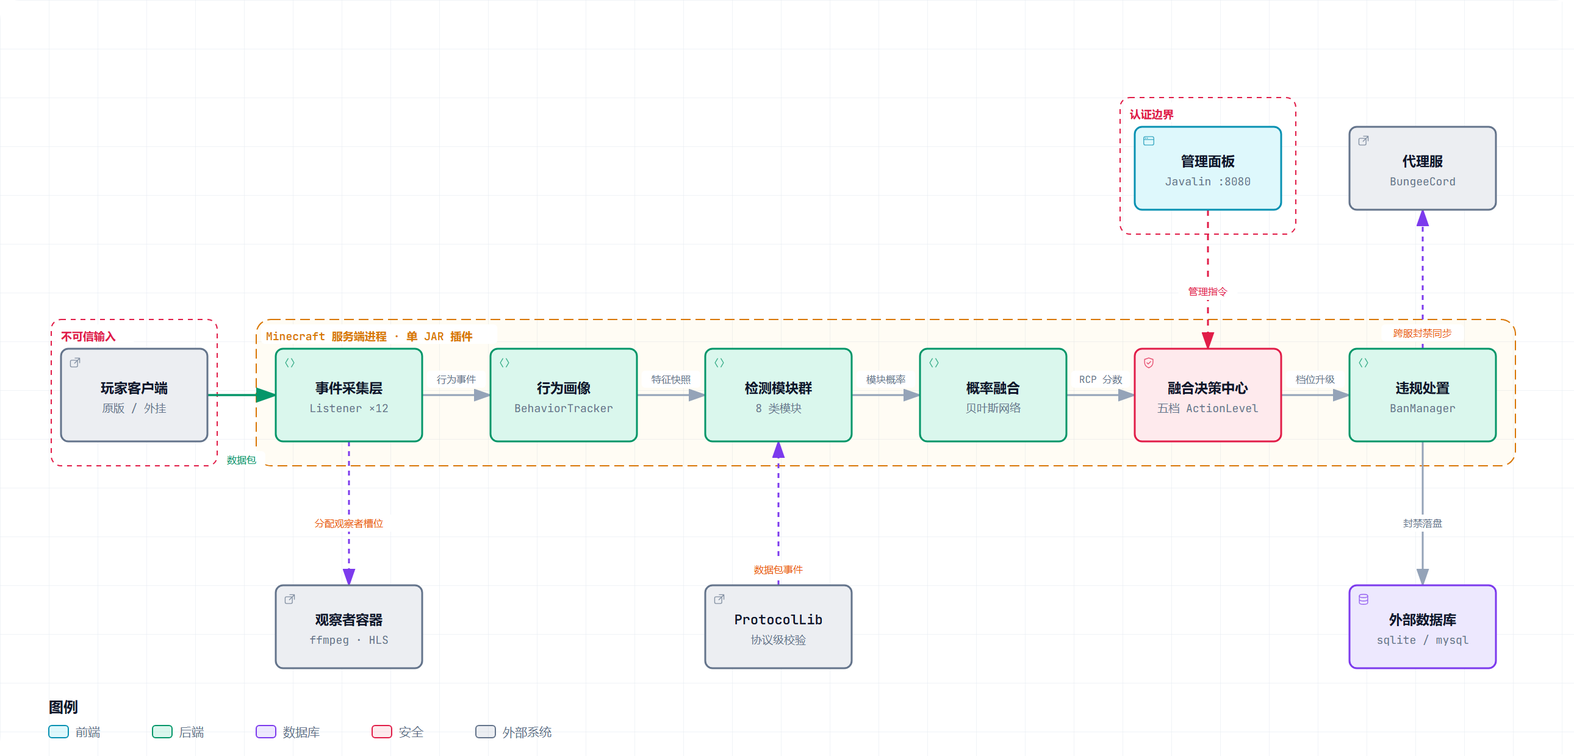
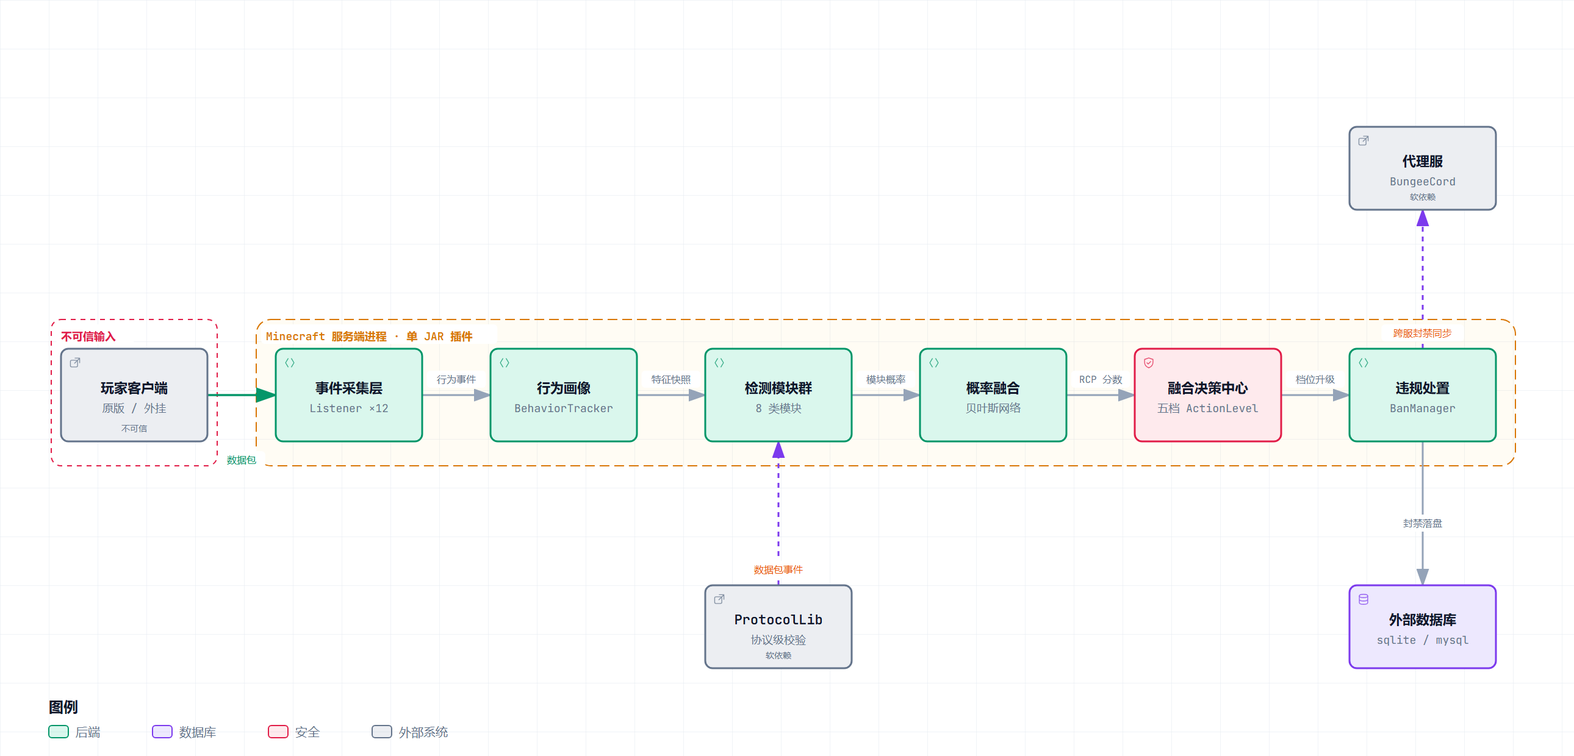
docs: 架构图随模块下线重新生成，移除管理面板与观察者容器节点
- spec 删除 panel / observer 两个组件及其连线、认证边界，卡片文案同步为
  「处罚动作已接线」「无 HTTP 服务，管理走游戏内 /ac config」
- archify 重新交付：9/9 检查通过、0 error / 0 warning、13 处源码引用
- 明暗两版 PNG 由提取出的 SVG + 样式表独立渲染重出，替换仍画着已下线模块的旧图
- README 架构图锚点更新为 5ae02ab，并注明本次下线范围

diff --git a/docs/architecture/anticheat-runtime-architecture.html b/docs/architecture/anticheat-runtime-architecture.html
@@ -5085,8 +5085,8 @@ OTHER DEALINGS IN THE FONT SOFTWARE.
       </div>
     </div>
 
-    <script id="archify-guided-views-data" type="application/json">[{"id":"main-path","label":"主链路","focus":["player","ingest","profile","modules","fusion","decision","sanction"],"note":"玩家数据包 → 采集 → 画像 → 检测 → 融合 → 决策 → 处置。"},{"id":"trust-boundaries","label":"信任边界","focus":["player","ingest","panel","decision","sanction","observer"],"note":"两处入站边界：不可信的玩家输入、需认证的管理指令。"},{"id":"side-branches","label":"外部依赖旁路","focus":["ingest","observer","modules","protocollib","sanction","db","proxy"],"note":"回放取证、协议校验、持久化、跨服同步四条旁路。"}]</script>
-    <script id="archify-source-evidence-data" type="application/json">{"schemaVersion":1,"verified":true,"repository":{"url":"https://github.com/cklsit/AdvancedAntiCheat","revision":"4b3bb479840c7b920d3860422eec86cdad75b549","shortRevision":"4b3bb47","label":"cklsit/AdvancedAntiCheat","href":"https://github.com/cklsit/AdvancedAntiCheat/tree/4b3bb479840c7b920d3860422eec86cdad75b549"},"referenceCount":16,"nodes":{"ingest":[{"path":"src/main/java/com/anticheat/managers/DetectionCoordinator.java","line":1,"label":"事件节流入口","href":"https://github.com/cklsit/AdvancedAntiCheat/blob/4b3bb479840c7b920d3860422eec86cdad75b549/src/main/java/com/anticheat/managers/DetectionCoordinator.java#L1"},{"path":"src/main/java/com/anticheat/listeners/PlayerMoveListener.java","line":1,"label":"移动事件","href":"https://github.com/cklsit/AdvancedAntiCheat/blob/4b3bb479840c7b920d3860422eec86cdad75b549/src/main/java/com/anticheat/listeners/PlayerMoveListener.java#L1"}],"profile":[{"path":"src/main/java/com/anticheat/profiles/BehaviorTracker.java","line":1,"label":"画像采集","href":"https://github.com/cklsit/AdvancedAntiCheat/blob/4b3bb479840c7b920d3860422eec86cdad75b549/src/main/java/com/anticheat/profiles/BehaviorTracker.java#L1"}],"modules":[{"path":"src/main/java/com/anticheat/managers/AdvancedDetectionManager.java","line":79,"label":"CHECK_INTERVAL_MS=100","href":"https://github.com/cklsit/AdvancedAntiCheat/blob/4b3bb479840c7b920d3860422eec86cdad75b549/src/main/java/com/anticheat/managers/AdvancedDetectionManager.java#L79"}],"fusion":[{"path":"src/main/java/com/anticheat/detection/fusion/ProbabilityFusionEngine.java","line":1,"label":"贝叶斯融合","href":"https://github.com/cklsit/AdvancedAntiCheat/blob/4b3bb479840c7b920d3860422eec86cdad75b549/src/main/java/com/anticheat/detection/fusion/ProbabilityFusionEngine.java#L1"},{"path":"src/main/java/com/anticheat/detection/fusion/RCPComputer.java","line":1,"label":"RCP 计算","href":"https://github.com/cklsit/AdvancedAntiCheat/blob/4b3bb479840c7b920d3860422eec86cdad75b549/src/main/java/com/anticheat/detection/fusion/RCPComputer.java#L1"}],"decision":[{"path":"src/main/java/com/anticheat/detection/fusion/DecisionActionCenter.java","line":55,"label":"ActionLevel 枚举","href":"https://github.com/cklsit/AdvancedAntiCheat/blob/4b3bb479840c7b920d3860422eec86cdad75b549/src/main/java/com/anticheat/detection/fusion/DecisionActionCenter.java#L55"}],"sanction":[{"path":"src/main/java/com/anticheat/detection/ViolationManager.java","line":268,"label":"触发封禁","href":"https://github.com/cklsit/AdvancedAntiCheat/blob/4b3bb479840c7b920d3860422eec86cdad75b549/src/main/java/com/anticheat/detection/ViolationManager.java#L268"},{"path":"src/main/java/com/anticheat/managers/BanManager.java","line":71,"label":"banPlayer","href":"https://github.com/cklsit/AdvancedAntiCheat/blob/4b3bb479840c7b920d3860422eec86cdad75b549/src/main/java/com/anticheat/managers/BanManager.java#L71"}],"panel":[{"path":"src/main/java/com/anticheat/web/WebServer.java","line":1,"label":"Javalin 服务","href":"https://github.com/cklsit/AdvancedAntiCheat/blob/4b3bb479840c7b920d3860422eec86cdad75b549/src/main/java/com/anticheat/web/WebServer.java#L1"},{"path":"src/main/java/com/anticheat/web/auth/AuthFilter.java","line":30,"label":"Bearer 校验","href":"https://github.com/cklsit/AdvancedAntiCheat/blob/4b3bb479840c7b920d3860422eec86cdad75b549/src/main/java/com/anticheat/web/auth/AuthFilter.java#L30"}],"proxy":[{"path":"plugin.yml","line":10,"label":"softdepend","href":"https://github.com/cklsit/AdvancedAntiCheat/blob/4b3bb479840c7b920d3860422eec86cdad75b549/plugin.yml#L10"},{"path":"src/main/java/com/anticheat/listeners/BungeeCordMessageListener.java","line":1,"label":"插件消息通道","href":"https://github.com/cklsit/AdvancedAntiCheat/blob/4b3bb479840c7b920d3860422eec86cdad75b549/src/main/java/com/anticheat/listeners/BungeeCordMessageListener.java#L1"}],"observer":[{"path":"src/main/java/com/anticheat/managers/ffmpeg/FfmpegManager.java","line":1,"label":"HTTP observerctl","href":"https://github.com/cklsit/AdvancedAntiCheat/blob/4b3bb479840c7b920d3860422eec86cdad75b549/src/main/java/com/anticheat/managers/ffmpeg/FfmpegManager.java#L1"}],"protocollib":[{"path":"src/main/java/com/anticheat/integration/ProtocolLibHook.java","line":1,"label":"软依赖探测","href":"https://github.com/cklsit/AdvancedAntiCheat/blob/4b3bb479840c7b920d3860422eec86cdad75b549/src/main/java/com/anticheat/integration/ProtocolLibHook.java#L1"}],"db":[{"path":"src/main/java/com/anticheat/managers/DatabaseManager.java","line":42,"label":"database.type 分支","href":"https://github.com/cklsit/AdvancedAntiCheat/blob/4b3bb479840c7b920d3860422eec86cdad75b549/src/main/java/com/anticheat/managers/DatabaseManager.java#L42"}]}}</script>
+    <script id="archify-guided-views-data" type="application/json">[{"id":"main-path","label":"主链路","focus":["player","ingest","profile","modules","fusion","decision","sanction"],"note":"玩家数据包 → 采集 → 画像 → 检测 → 融合 → 决策 → 处置。"},{"id":"trust-boundaries","label":"信任边界","focus":["player","ingest","decision","sanction"],"note":"两处入站边界：不可信的玩家输入、需认证的管理指令。"},{"id":"side-branches","label":"外部依赖旁路","focus":["ingest","modules","protocollib","sanction","db","proxy"],"note":"回放取证、协议校验、持久化、跨服同步四条旁路。"}]</script>
+    <script id="archify-source-evidence-data" type="application/json">{"schemaVersion":1,"verified":true,"repository":{"url":"https://github.com/cklsit/AdvancedAntiCheat","revision":"5ae02abd96ac6a4478a0a75c71e21a792c94059f","shortRevision":"5ae02ab","label":"cklsit/AdvancedAntiCheat","href":"https://github.com/cklsit/AdvancedAntiCheat/tree/5ae02abd96ac6a4478a0a75c71e21a792c94059f"},"referenceCount":13,"nodes":{"ingest":[{"path":"src/main/java/com/anticheat/managers/DetectionCoordinator.java","line":1,"label":"事件节流入口","href":"https://github.com/cklsit/AdvancedAntiCheat/blob/5ae02abd96ac6a4478a0a75c71e21a792c94059f/src/main/java/com/anticheat/managers/DetectionCoordinator.java#L1"},{"path":"src/main/java/com/anticheat/listeners/PlayerMoveListener.java","line":1,"label":"移动事件","href":"https://github.com/cklsit/AdvancedAntiCheat/blob/5ae02abd96ac6a4478a0a75c71e21a792c94059f/src/main/java/com/anticheat/listeners/PlayerMoveListener.java#L1"}],"profile":[{"path":"src/main/java/com/anticheat/profiles/BehaviorTracker.java","line":1,"label":"画像采集","href":"https://github.com/cklsit/AdvancedAntiCheat/blob/5ae02abd96ac6a4478a0a75c71e21a792c94059f/src/main/java/com/anticheat/profiles/BehaviorTracker.java#L1"}],"modules":[{"path":"src/main/java/com/anticheat/managers/AdvancedDetectionManager.java","line":79,"label":"CHECK_INTERVAL_MS=100","href":"https://github.com/cklsit/AdvancedAntiCheat/blob/5ae02abd96ac6a4478a0a75c71e21a792c94059f/src/main/java/com/anticheat/managers/AdvancedDetectionManager.java#L79"}],"fusion":[{"path":"src/main/java/com/anticheat/detection/fusion/ProbabilityFusionEngine.java","line":1,"label":"贝叶斯融合","href":"https://github.com/cklsit/AdvancedAntiCheat/blob/5ae02abd96ac6a4478a0a75c71e21a792c94059f/src/main/java/com/anticheat/detection/fusion/ProbabilityFusionEngine.java#L1"},{"path":"src/main/java/com/anticheat/detection/fusion/RCPComputer.java","line":1,"label":"RCP 计算","href":"https://github.com/cklsit/AdvancedAntiCheat/blob/5ae02abd96ac6a4478a0a75c71e21a792c94059f/src/main/java/com/anticheat/detection/fusion/RCPComputer.java#L1"}],"decision":[{"path":"src/main/java/com/anticheat/detection/fusion/DecisionActionCenter.java","line":55,"label":"ActionLevel 枚举","href":"https://github.com/cklsit/AdvancedAntiCheat/blob/5ae02abd96ac6a4478a0a75c71e21a792c94059f/src/main/java/com/anticheat/detection/fusion/DecisionActionCenter.java#L55"}],"sanction":[{"path":"src/main/java/com/anticheat/detection/ViolationManager.java","line":268,"label":"触发封禁","href":"https://github.com/cklsit/AdvancedAntiCheat/blob/5ae02abd96ac6a4478a0a75c71e21a792c94059f/src/main/java/com/anticheat/detection/ViolationManager.java#L268"},{"path":"src/main/java/com/anticheat/managers/BanManager.java","line":71,"label":"banPlayer","href":"https://github.com/cklsit/AdvancedAntiCheat/blob/5ae02abd96ac6a4478a0a75c71e21a792c94059f/src/main/java/com/anticheat/managers/BanManager.java#L71"}],"proxy":[{"path":"plugin.yml","line":10,"label":"softdepend","href":"https://github.com/cklsit/AdvancedAntiCheat/blob/5ae02abd96ac6a4478a0a75c71e21a792c94059f/plugin.yml#L10"},{"path":"src/main/java/com/anticheat/listeners/BungeeCordMessageListener.java","line":1,"label":"插件消息通道","href":"https://github.com/cklsit/AdvancedAntiCheat/blob/5ae02abd96ac6a4478a0a75c71e21a792c94059f/src/main/java/com/anticheat/listeners/BungeeCordMessageListener.java#L1"}],"protocollib":[{"path":"src/main/java/com/anticheat/integration/ProtocolLibHook.java","line":1,"label":"软依赖探测","href":"https://github.com/cklsit/AdvancedAntiCheat/blob/5ae02abd96ac6a4478a0a75c71e21a792c94059f/src/main/java/com/anticheat/integration/ProtocolLibHook.java#L1"}],"db":[{"path":"src/main/java/com/anticheat/managers/DatabaseManager.java","line":42,"label":"database.type 分支","href":"https://github.com/cklsit/AdvancedAntiCheat/blob/5ae02abd96ac6a4478a0a75c71e21a792c94059f/src/main/java/com/anticheat/managers/DatabaseManager.java#L42"}]}}</script>
     <script id="archify-i18n-data" type="application/json">{"locale":"zh-CN","messages":{"viewer.kind.frontend":"前端","viewer.kind.backend":"后端","viewer.kind.database":"数据库","viewer.kind.cloud":"云服务","viewer.kind.security":"安全","viewer.kind.messagebus":"消息总线","viewer.kind.external":"外部系统","viewer.kind.neutral":"中性","viewer.kind.node":"节点","viewer.kind.start":"开始","viewer.kind.active":"活动","viewer.kind.waiting":"等待","viewer.kind.decision":"决策","viewer.kind.success":"成功","viewer.kind.failure":"失败","viewer.toolbar.actions":"图表操作","viewer.theme.toggle.title":"切换主题（T）","viewer.theme.toggle":"切换颜色主题","viewer.theme.dark":"深色","viewer.theme.light":"浅色","viewer.preset.choose.title":"选择视觉风格（S 循环切换）","viewer.preset.choose":"选择视觉风格","viewer.preset.style":"风格","viewer.preset.menu":"视觉风格","viewer.preset.identity":"视觉表达","viewer.preset.cycles":"S 循环切换","viewer.preset.classic":"经典","viewer.preset.classic.short":"经典","viewer.preset.classic.hint":"稳定的技术默认风格","viewer.preset.flow":"信号流","viewer.preset.flow.short":"流动","viewer.preset.flow.hint":"突出动态流向","viewer.preset.blueprint":"蓝图","viewer.preset.blueprint.hint":"工程评审","viewer.preset.editorial":"编辑风格","viewer.preset.editorial.hint":"适合发布与上线说明","viewer.preset.badge.signalFlow":"信号流","viewer.preset.badge.blueprint":"蓝图 / 修订 01","viewer.preset.badge.editorial":"编辑风格 / 现场笔记","viewer.preset.badge.editorialPlate":"ARCHIFY / 图版 04","viewer.preset.current":"当前视觉风格：{style}。选择视觉风格","viewer.motion.live":"动态","viewer.motion.still":"静态","viewer.motion.pause":"暂停动效","viewer.motion.resume":"恢复动效","viewer.motion.reduced":"已根据减少动态效果偏好暂停动效","viewer.motion.hidden":"页面不可见时已暂停动效","viewer.motion.yielding":"暂停动效；当前让位于{owner}","viewer.motion.yielding.title":"动态预览已启用 · 正在让位于{owner}","viewer.owner.story":"引导故事","viewer.owner.chapter":"当前章节","viewer.owner.chapterPreview":"章节差异预览","viewer.owner.handoff":"章节交接","viewer.owner.route":"路径探测","viewer.owner.lens":"语义透镜","viewer.owner.relationship":"关系预览","viewer.owner.intent":"意图追踪","viewer.owner.focus":"语义聚焦","viewer.owner.legend":"图例预览","viewer.owner.reader":"读者交互","viewer.present.enter":"进入演示模式","viewer.present.enter.title":"演示模式（F）","viewer.present.exit":"退出演示模式","viewer.present.exit.title":"退出演示模式（F 或 Escape）","viewer.present.present":"演示","viewer.present.exit.label":"退出","viewer.export.button":"导出","viewer.export.button.title":"导出图表（E）","viewer.export.diagram":"导出图表","viewer.export.menu":"导出","viewer.export.subtitle":"便携、整洁的输出","viewer.export.share":"分享","viewer.export.shareCard":"分享卡片","viewer.export.routeShareCard":"路径分享卡片","viewer.export.reachShareCard":"可达范围分享卡片","viewer.export.copyShareCard":"复制分享卡片","viewer.export.copyDiagram":"复制图表","viewer.export.clipboardPng":"复制 PNG 到剪贴板","viewer.export.raster":"位图","viewer.export.image":"图像","viewer.export.lossless":"无损图像","viewer.export.compact":"紧凑图像","viewer.export.modern":"现代图像格式","viewer.export.vectorMotion":"矢量与动效","viewer.export.vectorMotion.heading":"矢量与动效","viewer.export.editable":"可编辑矢量图","viewer.export.motion6s":"6 秒动效","viewer.export.unsupported":"当前浏览器不支持","viewer.export.clipboardUnsupported":"当前浏览器不支持写入图片剪贴板","viewer.export.clipboardUnsupported.period":"当前浏览器不支持写入图片剪贴板。","viewer.export.clipboardUnsupported.short":"此浏览器不支持写入图片剪贴板。","viewer.export.motionUnavailable":"当前浏览器无法录制动效","viewer.export.webmUnavailable":"当前浏览器不支持 WebM","viewer.export.failed":"导出失败：{message}","viewer.export.unknownVariant":"未知的分享卡片类型：{variant}","viewer.export.routeRequired":"请先追踪路径，再导出路径分享卡片","viewer.export.reachRequired":"请先追踪编写可达范围，再导出可达范围分享卡片","viewer.export.unknown":"未知错误","viewer.export.routeFailed":"路径分享卡片导出失败：{message}","viewer.export.reachFailed":"可达范围分享卡片导出失败：{message}","viewer.export.copyFailed":"复制失败：{message}","viewer.export.copiedPng":"已将 PNG 复制到剪贴板","viewer.export.copiedShare":"已复制分享卡片","viewer.export.downloadedShare":"已下载分享卡片","viewer.export.downloadedRoute":"已下载路径分享卡片","viewer.export.downloadedReach":"已下载可达范围分享卡片","viewer.export.downloadedWebm":"已下载 WebM","viewer.export.recording":"正在录制 6 秒动效…","viewer.export.card.routeSummary.one":"路径：{source} → {target} · {count} 个有向跳转","viewer.export.card.routeSummary.other":"路径：{source} → {target} · {count} 个有向跳转","viewer.export.card.reachSummary":"从{origin}开始的编写{direction} · {nodes} · {links} · 最深 {hops}","viewer.export.card.node.one":"{count} 个节点","viewer.export.card.node.other":"{count} 个节点","viewer.export.card.link.one":"{count} 条连接","viewer.export.card.link.other":"{count} 条连接","viewer.export.card.hop.one":"{count} 跳","viewer.export.card.hop.other":"{count} 跳","viewer.export.card.routeBadge":"ARCHIFY · 路径 · {hops}","viewer.export.card.reachBadge":"ARCHIFY · {direction}可达范围","viewer.export.card.defaultBadge":"ARCHIFY · {preset} · {theme}","viewer.export.direction.upstream":"上游","viewer.export.direction.downstream":"下游","viewer.export.error.canvasUnavailable":"无法为{label}使用画布","viewer.export.error.contextUnavailable":"无法为{label}创建二维画布上下文","viewer.export.error.toBlobUnavailable":"{label}无法使用 canvas.toBlob","viewer.export.error.toBlobNull":"{label}的 canvas.toBlob 未返回数据","viewer.export.error.variantsCombined":"无法同时组合多种分享卡片类型","viewer.export.error.viewerState":"分享卡片导出无法移除临时 Viewer 状态","viewer.export.error.routeState":"路径卡片导出无法安全保留已解析路径","viewer.export.error.reachState":"可达范围卡片导出无法安全保留编写的可达范围","viewer.export.error.webmRequirements":"WebM 动效导出需要追踪动画及浏览器 MediaRecorder 支持","viewer.export.error.mediaRecorder":"MediaRecorder 录制失败","viewer.export.error.emptyWebm":"MediaRecorder 生成了空的 WebM","viewer.export.error.webmBackground":"无法为 WebM 导出加载 SVG 背景","viewer.guided.region":"图表引导视图","viewer.guided.previous":"上一个引导视图","viewer.guided.previous.title":"上一个引导视图（[）","viewer.guided.next":"下一个引导视图","viewer.guided.next.title":"下一个引导视图（]）","viewer.guided.views":"引导视图","viewer.guided.explore":"探索此系统","viewer.guided.intro":"沿精选路径逐步查看，而不改变源图表。","viewer.guided.trail":"故事轨迹","viewer.guided.beat":"节点","viewer.guided.nextBeat":"下一步","viewer.guided.play":"播放引导故事","viewer.guided.play.title":"播放引导故事（P）","viewer.guided.pause":"暂停引导故事","viewer.guided.pause.title":"暂停引导故事（P）","viewer.guided.replay":"重播引导故事","viewer.guided.replay.title":"重播引导故事（P）","viewer.guided.playStory":"播放故事","viewer.guided.pauseStory":"暂停","viewer.guided.replayStory":"重播故事","viewer.guided.motionUnavailable":"静态模式下无法播放故事","viewer.guided.enableMotion":"切换为动态模式以播放引导故事","viewer.guided.selectBeatLink":"选择故事节点以复制其精确链接","viewer.guided.copyMoment":"复制此刻","viewer.guided.momentCopied":"已复制时刻链接","viewer.guided.momentCopyFailed":"无法复制故事时刻链接","viewer.guided.copied":"已复制","viewer.guided.copyFailed":"复制失败","viewer.guided.showAll":"显示全部","viewer.guided.showAll.aria":"显示完整图表","viewer.guided.chapters":"故事章节","viewer.guided.storyTrail":"{label}的故事轨迹：{count} 个节点","viewer.guided.chapter.open":"打开第 {index}/{total} 章：{label}，{count} 个停靠点","viewer.guided.chapter.current":"当前第 {index}/{total} 章：{label}，{count} 个停靠点","viewer.guided.chapter.selectedNodes":"已选择 {count} 个节点","viewer.guided.chapter.stops":"{count} 个停靠点","viewer.guided.chapter.stop.one":"{count} 个停靠点","viewer.guided.chapter.stop.other":"{count} 个停靠点","viewer.guided.chapter.current.title":"{label} — 当前章节，{count} 个停靠点","viewer.guided.chapter.delta.expanded":"{stay} 个保留，{enter} 个进入，{leave} 个离开","viewer.guided.chapter.delta.aria":"打开第 {index}/{total} 章：{label}。章节聚焦差异：{delta}","viewer.guided.chapter.delta.title":"{label} — 章节聚焦 {delta}","viewer.guided.handoff":"{from} → {to} · 经由{label}","viewer.guided.share.chapter":"章节 {index} / {total}","viewer.guided.share.initial":"章节 01 / 01","viewer.guided.share.default":"引导章节","viewer.guided.state.ready":"就绪","viewer.guided.state.playing":"播放中","viewer.guided.state.settled":"已完成","viewer.guided.state.paused":"已暂停","viewer.guided.state.pinned":"已固定","viewer.guided.state.still":"静态","viewer.guided.share.step":"步骤 {index} / {total} · {label}","viewer.guided.share.staticMoment":"{step} · 静态时刻","viewer.guided.share.complete":"{count} 个步骤已完成 · {note}","viewer.guided.share.settled":"路径已稳定，可供阅读。","viewer.guided.share.staticPath":"{count} 个步骤 · 静态路径","viewer.guided.share.ready":"{count} 个步骤 · 就绪","viewer.guided.share.aria":"{state}，第 {index}/{total} 章：{label}。{beat}。{route}","viewer.guided.beat.start":"节点 {index} / {total} · {label} · 起点","viewer.guided.beat.forward":"节点 {index} / {total} · {from} → {to}","viewer.guided.beat.reverse":"节点 {index} / {total} · {from} → {to} · 反向编写连接","viewer.guided.beat.multiple":"节点 {index} / {total} · {from} ⇄ {to} · {count} 条编写连接","viewer.guided.beat.group":"节点 {index} / {total} · {from} · {to} · 分组 · 无直接连接","viewer.guided.beat.aria.prefix":"故事节点 {index}/{total}：{label}。","viewer.guided.beat.aria.start":"起点。","viewer.guided.beat.aria.forward":"从{from}经一条正向编写关系到达。","viewer.guided.beat.aria.reverse":"从{from}出发；编写关系实际由{to}指向{from}。","viewer.guided.beat.aria.multiple":"从{from}经 {count} 条编写关系到达；不使用任意动效。","viewer.guided.beat.aria.group":"与{from}分组展示，没有直接编写关系。","viewer.guided.caption.start":"起点","viewer.guided.caption.grouped":"分组过渡 · 无直接编写连接","viewer.guided.caption.more":" +另外 {count} 条","viewer.guided.caption.reverse":"反向编写关系","viewer.guided.caption.relationships":"{count} 条编写关系","viewer.guided.caption.relationship":"编写关系","viewer.guided.caption.direction":"编写方向：{from} → {to}","viewer.guided.caption.starting":"编写起点","viewer.guided.beatLink":"复制当前故事时刻链接：第 {index}/{total} 个节点：{label}","viewer.guided.noStory":"此图表没有编写引导故事。","viewer.guide.eyebrow":"图表指南","viewer.guide.close":"关闭图表指南","viewer.guide.inspecting":"正在检查已编译语义","viewer.guide.actions":"图表探索操作","viewer.guide.find":"查找任意节点","viewer.guide.find.hint":"搜索标签、职责、类型和稳定 ID。","viewer.guide.route":"追踪路径","viewer.guide.route.aria":"追踪有向路径","viewer.guide.route.hint":"查看两个语义节点如何按编写方向连接。","viewer.guide.map":"查看完整系统","viewer.guide.map.hint":"打开带实时视口和稳定节点的语义雷达。","viewer.guide.lens":"比较语义类型","viewer.guide.lens.hint":"统计角色、显示流量并比较直接编写的连接。","viewer.guide.story":"播放引导故事","viewer.guide.story.hint":"浏览已编写的章节和真实关系。","viewer.guide.present":"进入演示模式","viewer.guide.present.hint":"让实时图表占满视口，同时不改变导出。","viewer.guide.shortcuts":"其他键盘快捷键","viewer.guide.shortcut.export":"导出","viewer.guide.shortcut.theme":"主题","viewer.guide.shortcut.style":"风格","viewer.guide.shortcut.reset":"重置","viewer.guide.shortcut.zoomIn":"放大","viewer.guide.shortcut.zoomOut":"缩小","viewer.guide.shortcut.close":"关闭","viewer.guide.facts":"{nodes} · {relationships} · {views}","viewer.guide.fact.node.one":"{count} 个语义节点","viewer.guide.fact.node.other":"{count} 个语义节点","viewer.guide.fact.relationship.one":"{count} 条关系","viewer.guide.fact.relationship.other":"{count} 条关系","viewer.guide.fact.view.one":"{count} 个引导视图","viewer.guide.fact.view.other":"{count} 个引导视图","viewer.guide.story.available.one":"浏览 {count} 个已编写章节及其真实关系。","viewer.guide.story.available.other":"浏览 {count} 个已编写章节及其真实关系。","viewer.guide.story.unavailable":"此图表没有编写引导故事。","viewer.guide.open":"打开图表指南","viewer.guide.noStory":"此图表没有编写引导故事。","viewer.finder.title":"查找节点","viewer.finder.close":"关闭节点查找器","viewer.finder.placeholder":"搜索标签或 ID","viewer.finder.search":"搜索图表节点","viewer.finder.results":"图表节点","viewer.finder.empty":"没有匹配的节点","viewer.finder.result.focus":"聚焦{label}","viewer.finder.result.routeStart":"选择{label}作为路径起点","viewer.finder.result.routeTarget":"选择{label}作为路径终点，{links}","viewer.finder.status.empty":"没有匹配的节点","viewer.finder.status.count.one":"{count} 个匹配节点","viewer.finder.status.count.other":"{count} 个匹配节点","viewer.finder.noun.nodes":"个节点","viewer.finder.link.one":"{count} 条连接","viewer.finder.link.other":"{count} 条连接","viewer.finder.result.focus.one":"聚焦{label}，{count} 条相关连接","viewer.finder.result.focus.other":"聚焦{label}，{count} 条相关连接","viewer.finder.status.filtered":"{visible}/{available} {noun}","viewer.finder.status.all":"{available} {noun}","viewer.passport.eyebrow":"语义护照","viewer.passport.metadata":"节点元数据","viewer.passport.evidence":"已验证的源代码证据","viewer.passport.verified":"已验证来源","viewer.passport.verificationScope":"已按固定修订版本验证本地 Git 证据，未检查远程访问权限。","viewer.passport.reach":"编写可达范围","viewer.passport.reach.trace":"追踪编写的可达性","viewer.passport.upstream":"上游","viewer.passport.downstream":"下游","viewer.passport.upstream.trace":"追踪上游编写可达性","viewer.passport.downstream.trace":"追踪下游编写可达性","viewer.passport.close":"关闭语义护照","viewer.passport.copy":"复制链接","viewer.passport.copy.focus":"复制聚焦节点的链接","viewer.passport.relations":"关系","viewer.passport.relations.show":"显示关联关系","viewer.passport.relations.hide":"隐藏关联关系","viewer.passport.relations.list":"关联关系","viewer.passport.copyRelation":"复制关系","viewer.passport.copyNode":"复制节点","viewer.passport.copyPinned":"复制固定关系的链接","viewer.passport.copySource":"复制来源节点的链接","viewer.passport.copy.focused.success":"已复制聚焦节点链接","viewer.passport.copy.pinned.success":"已复制固定关系链接","viewer.passport.copy.focused.failed":"无法复制聚焦节点链接","viewer.passport.copy.pinned.failed":"无法复制固定关系链接","viewer.passport.relationship.none":"没有关联关系","viewer.passport.relationship.count.one":"{count} 条关系","viewer.passport.relationship.count.other":"{count} 条关系","viewer.passport.relationship.show.one":"显示 {count} 条关联关系","viewer.passport.relationship.show.other":"显示 {count} 条关联关系","viewer.passport.relationship.summary":"{out} 条出向 · {in} 条入向{loops}","viewer.passport.relationship.loops":" · {count} 条自环","viewer.passport.relationship.explorer":"直接关系浏览器","viewer.passport.relationship.help":"使用方向键浏览关系。按 Enter 或空格键固定详情；按 Escape 清除。","viewer.passport.relationship.loopsBack":"回环","viewer.passport.relationship.connectsTo":"连接到","viewer.passport.relationship.connectsFrom":"连接自","viewer.passport.relationship.pinned":"已固定关系 · {from} → {to} · {label}","viewer.passport.relationship.inspect":"检查第 {index}/{total} 条关系：{from} 到 {to}，{label}。按 Enter 查看详情。","viewer.passport.relationship.group.out":"出向","viewer.passport.relationship.group.in":"入向","viewer.passport.relationship.group.loop":"自环","viewer.passport.relationship.row":"{group}：{relationship}，{neighbor}","viewer.passport.relationship.direction.out":"出 →","viewer.passport.relationship.direction.in":"← 入","viewer.passport.relationship.direction.loop":"自环","viewer.passport.sourceCount.one":"{count} 个已验证来源引用","viewer.passport.sourceCount.other":"{count} 个已验证来源引用","viewer.passport.sourceMarker":"来源","viewer.passport.beacon.one":"{count} 个已验证来源；聚焦此节点以检查","viewer.passport.beacon.other":"{count} 个已验证来源；聚焦此节点以检查","viewer.passport.repository.open":"打开已验证的仓库修订版本 {revision}","viewer.passport.source.open":"打开修订版本 {revision} 中已验证的来源 {path}","viewer.passport.source.openLink":"打开 ↗","viewer.passport.reach.upstream.one":"追踪 {count} 个上游编写节点","viewer.passport.reach.upstream.other":"追踪 {count} 个上游编写节点","viewer.passport.reach.downstream.one":"追踪 {count} 个下游编写节点","viewer.passport.reach.downstream.other":"追踪 {count} 个下游编写节点","viewer.passport.reach.noUpstream":"没有上游编写节点","viewer.passport.reach.noDownstream":"没有下游编写节点","viewer.passport.reach.status":"{direction} · {nodes} 个节点 · {links} 条连接 · 最深 {hops} 跳","viewer.route.eyebrow":"路径探测","viewer.route.start":"选择起点节点","viewer.route.start.find":"查找起点","viewer.route.start.find.aria":"查找路径起点","viewer.route.copy":"复制链接","viewer.route.copy.aria":"复制已追踪路径的链接","viewer.route.clear":"清除","viewer.route.clear.aria":"清除路径探测","viewer.route.traced":"已追踪路径","viewer.route.pickTwo":"在图表中选择两个语义节点","viewer.route.pickOne":"在图表中选择一个语义节点","viewer.route.controls":"路径旅程控制","viewer.route.previous":"上一个路径位置","viewer.route.play":"播放路径旅程","viewer.route.pause":"暂停路径旅程","viewer.route.replay":"重播路径旅程","viewer.route.next":"下一个路径位置","viewer.route.journey":"旅程","viewer.route.pause.label":"暂停","viewer.route.replay.label":"重播","viewer.route.overview":"总览","viewer.route.overview.aria":"显示完整路径总览","viewer.route.instructions":"先选择来源，再选择目标；方向很重要。","viewer.route.destination":"选择从{label}出发的目标","viewer.route.destination.find":"查找目标","viewer.route.destination.find.aria":"查找可达的路径目标","viewer.route.differentDestination":"选择其他目标","viewer.route.distinct":"一条路径需要两个不同的语义节点。","viewer.route.unreachable":"没有通往{label}的有向路径","viewer.route.unreachable.detail":"从{source}无法到达{target}。请选择高亮的目标。","viewer.route.start.instructions":"选择来源。下一步只会显示有向可达的目标。","viewer.route.copy.success":"已复制路径链接","viewer.route.copy.failed":"无法复制路径链接","viewer.route.position":"路径位置 {index}/{total}：{label}","viewer.route.step":"第 {index}/{total} 步 · {phase} · {label}","viewer.route.motionRequired":"自动旅程需要动态模式","viewer.route.trigger.clear":"清除已追踪路径","viewer.route.overview.status":"{nodes} · {hops} · 最短编写路径","viewer.route.overview.node.one":"{count} 个节点","viewer.route.overview.node.other":"{count} 个节点","viewer.route.overview.hop.one":"{count} 个有向跳转","viewer.route.overview.hop.other":"{count} 个有向跳转","viewer.route.phase.playing":"播放中","viewer.route.phase.complete":"已完成","viewer.route.phase.inspecting":"检查中","viewer.route.destination.count.one":"有 {count} 个有向目标可用。请选择高亮节点。","viewer.route.destination.count.other":"有 {count} 个有向目标可用。请选择高亮节点。","viewer.route.noOutgoing":"此处没有可用的出向路径。请清除后选择其他来源。","viewer.route.result.title":"{source} 到 {target}","viewer.route.finder.source.title":"选择路径起点","viewer.route.finder.source.placeholder":"搜索路径来源","viewer.route.finder.source.empty":"没有匹配的路径来源","viewer.route.finder.source.results":"可作为路径起点的节点","viewer.route.finder.source.noun":"个路径来源","viewer.route.finder.source.badge":"起点","viewer.route.finder.target.title":"从{label}出发的目标","viewer.route.finder.target.placeholder":"搜索可达目标","viewer.route.finder.target.empty":"没有匹配的可达目标","viewer.route.finder.target.results":"可达路径目标","viewer.route.finder.target.noun":"个可达目标","viewer.route.hop.one":"{count} 跳","viewer.route.hop.other":"{count} 跳","viewer.lens.eyebrow":"语义透镜","viewer.lens.title":"比较系统角色","viewer.lens.close":"关闭语义透镜","viewer.lens.instruction":"最多选择两种语义类型。选择一种可显示其真实流量；选择两种只比较直接编写的关系。","viewer.lens.kinds":"语义类型","viewer.lens.choose":"选择一种类型以检查其节点和相连关系。","viewer.lens.copy":"复制语义透镜链接","viewer.lens.clear":"清除语义透镜","viewer.lens.open":"打开语义透镜","viewer.lens.openActive":"打开当前语义透镜","viewer.lens.legend":"语义图例","viewer.lens.legend.inspect.one":"检查{label}，{count} 个节点","viewer.lens.legend.inspect.other":"检查{label}，{count} 个节点","viewer.lens.kind.count.one":"{label}，{count} 个节点","viewer.lens.kind.count.other":"{label}，{count} 个节点","viewer.lens.compare.one":"{first} → {second}：{forward} · {second} → {first}：{reverse} · 共 {count} 条直接关系","viewer.lens.compare.other":"{first} → {second}：{forward} · {second} → {first}：{reverse} · 共 {count} 条直接关系","viewer.lens.single":"{nodes} · {relationships} · 已连接节点保持可见","viewer.lens.node.one":"{count} 个{label}节点","viewer.lens.node.other":"{count} 个{label}节点","viewer.lens.relationship.one":"{count} 条相连关系","viewer.lens.relationship.other":"{count} 条相连关系","viewer.radar.title":"语义雷达","viewer.radar.building":"正在构建总览","viewer.radar.openFull":"打开完整语义雷达","viewer.radar.open":"打开雷达","viewer.radar.close":"关闭语义雷达","viewer.radar.surface":"图表总览。点击节点进行聚焦，或使用方向键平移。","viewer.radar.click":"点击节点","viewer.radar.drag":"拖动平移","viewer.radar.space":"语义雷达需要更多地图可见空间。","viewer.radar.nodes":"语义图表雷达节点","viewer.radar.focus":"从语义雷达聚焦{label}","viewer.radar.status":"{count} 个节点 · {viewport}","viewer.radar.fullMap":"{count} 个节点 · 完整地图","viewer.radar.compacted":"已收紧雷达，避免遮挡语义护照或地图控件。","viewer.radar.cancelWaiting":"取消等待更多地图空间的语义雷达","viewer.radar.needsSpace":"语义雷达需要更多可见地图空间","viewer.radar.viewport.full":"完整地图","viewer.radar.viewport.width":"宽度 {percent}%","viewer.radar.viewport.scale":"视口 {percent}%","viewer.nav.controls":"图表视图控制","viewer.nav.route":"追踪有向路径","viewer.nav.route.title":"追踪路径（R）","viewer.nav.route.short":"路径","viewer.nav.radar":"打开语义雷达","viewer.nav.radar.title":"语义雷达（M）","viewer.nav.radar.short":"地图","viewer.nav.lens":"打开语义透镜","viewer.nav.lens.title":"语义透镜（L）","viewer.nav.lens.short":"透镜","viewer.nav.find":"查找节点","viewer.nav.find.title":"查找节点（/）","viewer.nav.guide":"打开图表指南","viewer.nav.guide.title":"图表指南（?）","viewer.nav.zoomOut":"缩小","viewer.nav.zoomOut.title":"缩小（-）","viewer.nav.reset":"重置图表视图","viewer.nav.reset.title":"重置视图（0）","viewer.nav.read":"阅读","viewer.nav.zoomIn":"放大","viewer.nav.zoomIn.title":"放大（+）","viewer.nav.camera":"{hint}。重置图表视图","viewer.nav.camera.title":"{semantic}{hint} · 重置视图（0）","viewer.nav.camera.semantic":"语义相机已启用 · ","viewer.nav.level.map":"概览","viewer.nav.level.read":"阅读","viewer.nav.level.full":"完整","viewer.nav.level.auto":"自动","viewer.nav.detail.map":"放大以显示关系标签和节点上下文","viewer.nav.detail.read":"再次放大以显示标签和注释","viewer.nav.detail.full":"完整图表详情","viewer.intent.summary":"{label}。{out} 条出向，{in} 条入向{loops}。共 {total} 条连接。按 Enter 查看详情。","viewer.intent.loops":"，{count} 条自环","viewer.common.copied":"已复制","viewer.common.copyFailed":"复制失败","viewer.common.copyLink":"复制链接","viewer.common.clear":"清除","viewer.common.close":"关闭"}}</script>
     <div class="guided-views no-print" id="guided-views" hidden aria-label="图表引导视图">
       <button id="guided-view-prev" type="button" aria-label="上一个引导视图" title="上一个引导视图（[）">&#8592;</button>
@@ -5160,8 +5160,6 @@ OTHER DEALINGS IN THE FONT SOFTWARE.
 
         <rect data-graph-role="structural-frame" data-composition-frame-kind="security-group" data-composition-frame-id="1" data-composition-frame-label="不可信输入" x="42" y="262" width="136" height="120" rx="8" class="c-security-group" stroke-width="1"/>
 
-        <rect data-graph-role="structural-frame" data-composition-frame-kind="security-group" data-composition-frame-id="2" data-composition-frame-label="认证边界" x="918" y="80" width="144" height="112" rx="8" class="c-security-group" stroke-width="1"/>
-
         <!-- Connection paths (before components for correct z-order) -->
         <path data-edge-from="player" data-edge-to="ingest" data-edge-label="数据包" data-edge-key="0" data-edge-id="player-to-ingest" data-composition-points="170,324;226,324" d="M 170 324 L 226 324" class="a-emphasis" stroke-width="1.8" marker-end="url(#arrowhead-emphasis)"/>
         <path data-edge-from="ingest" data-edge-to="profile" data-edge-label="行为事件" data-edge-key="1" data-edge-id="ingest-to-profile" data-composition-points="346,324;402,324" d="M 346 324 L 402 324" class="a-default" stroke-width="1.5" marker-end="url(#arrowhead)"/>
@@ -5169,11 +5167,9 @@ OTHER DEALINGS IN THE FONT SOFTWARE.
         <path data-edge-from="modules" data-edge-to="fusion" data-edge-label="模块概率" data-edge-key="3" data-edge-id="modules-to-fusion" data-composition-points="698,324;754,324" d="M 698 324 L 754 324" class="a-default" stroke-width="1.5" marker-end="url(#arrowhead)"/>
         <path data-edge-from="fusion" data-edge-to="decision" data-edge-label="RCP 分数" data-edge-key="4" data-edge-id="fusion-to-decision" data-composition-points="874,324;930,324" d="M 874 324 L 930 324" class="a-default" stroke-width="1.5" marker-end="url(#arrowhead)"/>
         <path data-edge-from="decision" data-edge-to="sanction" data-edge-label="档位升级" data-edge-key="5" data-edge-id="decision-to-sanction" data-composition-points="1050,324;1106,324" d="M 1050 324 L 1106 324" class="a-default" stroke-width="1.5" marker-end="url(#arrowhead)"/>
-        <path data-edge-from="panel" data-edge-to="decision" data-edge-label="管理指令" data-edge-key="6" data-edge-id="panel-to-decision" data-composition-points="990,172;990,286" d="M 990 172 L 990 286" class="a-security" stroke-width="1.5" marker-end="url(#arrowhead-security)"/>
-        <path data-edge-from="ingest" data-edge-to="observer" data-edge-label="分配观察者槽位" data-edge-key="7" data-edge-id="ingest-to-observer" data-composition-points="286,362;286,480" d="M 286 362 L 286 480" class="a-dashed" stroke-width="1.5" marker-end="url(#arrowhead-dashed)"/>
-        <path data-edge-from="protocollib" data-edge-to="modules" data-edge-label="数据包事件" data-edge-key="8" data-edge-id="protocollib-to-modules" data-composition-points="638,480;638,362" d="M 638 480 L 638 362" class="a-dashed" stroke-width="1.5" marker-end="url(#arrowhead-dashed)"/>
-        <path data-edge-from="sanction" data-edge-to="db" data-edge-label="封禁落盘" data-edge-key="9" data-edge-id="sanction-to-db" data-composition-points="1166,362;1166,480" d="M 1166 362 L 1166 480" class="a-default" stroke-width="1.5" marker-end="url(#arrowhead)"/>
-        <path data-edge-from="sanction" data-edge-to="proxy" data-edge-label="跨服封禁同步" data-edge-key="10" data-edge-id="sanction-to-proxy" data-composition-points="1166,286;1166,172" d="M 1166 286 L 1166 172" class="a-dashed" stroke-width="1.5" marker-end="url(#arrowhead-dashed)"/>
+        <path data-edge-from="protocollib" data-edge-to="modules" data-edge-label="数据包事件" data-edge-key="6" data-edge-id="protocollib-to-modules" data-composition-points="638,480;638,362" d="M 638 480 L 638 362" class="a-dashed" stroke-width="1.5" marker-end="url(#arrowhead-dashed)"/>
+        <path data-edge-from="sanction" data-edge-to="db" data-edge-label="封禁落盘" data-edge-key="7" data-edge-id="sanction-to-db" data-composition-points="1166,362;1166,480" d="M 1166 362 L 1166 480" class="a-default" stroke-width="1.5" marker-end="url(#arrowhead)"/>
+        <path data-edge-from="sanction" data-edge-to="proxy" data-edge-label="跨服封禁同步" data-edge-key="8" data-edge-id="sanction-to-proxy" data-composition-points="1166,286;1166,172" d="M 1166 286 L 1166 172" class="a-dashed" stroke-width="1.5" marker-end="url(#arrowhead-dashed)"/>
 
         <!-- Components -->
         <g id="node-player" data-node-id="player" data-node-label="玩家客户端" tabindex="0" role="button" aria-label="聚焦玩家客户端，原版 / 外挂, 不可信输入" aria-pressed="false" data-node-kind="external" data-node-sublabel="原版 / 外挂" data-node-tag="不可信" data-node-context="不可信输入">
@@ -5256,21 +5252,6 @@ OTHER DEALINGS IN THE FONT SOFTWARE.
         <text data-detail="context" x="1166" y="338" class="t-muted" font-size="9" text-anchor="middle">BanManager</text>
         </g>
 
-        <g id="node-panel" data-node-id="panel" data-node-label="管理面板" tabindex="0" role="button" aria-label="聚焦管理面板，Javalin :8080, 认证边界" aria-pressed="false" data-node-kind="frontend" data-node-sublabel="Javalin :8080" data-node-tag="Bearer + RBAC" data-node-context="认证边界">
-          <title>管理面板 · Javalin :8080 · 认证边界 · Bearer + RBAC</title>
-          <rect x="930" y="104" width="120" height="68" rx="6" class="c-mask"/>
-          <rect x="930" y="104" width="120" height="68" rx="6" class="c-frontend" stroke-width="1.5"/>
-          <g aria-hidden="true" data-semantic-sigil="frontend" class="semantic-sigil s-frontend" transform="translate(936 110) scale(0.6875)">
-            <rect x="2" y="3" width="12" height="10" rx="2"/>
-            <path d="M2 6.5h12"/>
-            <circle cx="4.1" cy="4.8" r=".7" class="sigil-fill"/>
-            <circle cx="6.3" cy="4.8" r=".7" class="sigil-fill"/>
-          </g>
-          <text data-node-label="" data-detail-anchor="" x="990" y="136" class="t-primary" font-size="11" font-weight="600" text-anchor="middle">管理面板</text>
-        <text data-detail="context" x="990" y="152" class="t-muted" font-size="9" text-anchor="middle">Javalin :8080</text>
-        <text data-detail="fine" x="990" y="164" class="t-frontend" font-size="7" text-anchor="middle">Bearer + RBAC</text>
-        </g>
-
         <g id="node-proxy" data-node-id="proxy" data-node-label="代理服" tabindex="0" role="button" aria-label="聚焦代理服，BungeeCord, 架构组件" aria-pressed="false" data-node-kind="external" data-node-sublabel="BungeeCord" data-node-tag="软依赖" data-node-context="架构组件">
           <title>代理服 · BungeeCord · 架构组件 · 软依赖</title>
           <rect x="1106" y="104" width="120" height="68" rx="6" class="c-mask"/>
@@ -5282,19 +5263,6 @@ OTHER DEALINGS IN THE FONT SOFTWARE.
           <text data-node-label="" data-detail-anchor="" x="1166" y="136" class="t-primary" font-size="11" font-weight="600" text-anchor="middle">代理服</text>
         <text data-detail="context" x="1166" y="152" class="t-muted" font-size="9" text-anchor="middle">BungeeCord</text>
         <text data-detail="fine" x="1166" y="164" class="t-external" font-size="7" text-anchor="middle">软依赖</text>
-        </g>
-
-        <g id="node-observer" data-node-id="observer" data-node-label="观察者容器" tabindex="0" role="button" aria-label="聚焦观察者容器，ffmpeg · HLS, 架构组件" aria-pressed="false" data-node-kind="external" data-node-sublabel="ffmpeg · HLS" data-node-tag="无鉴权" data-node-context="架构组件">
-          <title>观察者容器 · ffmpeg · HLS · 架构组件 · 无鉴权</title>
-          <rect x="226" y="480" width="120" height="68" rx="6" class="c-mask"/>
-          <rect x="226" y="480" width="120" height="68" rx="6" class="c-external" stroke-width="1.5"/>
-          <g aria-hidden="true" data-semantic-sigil="external" class="semantic-sigil s-external" transform="translate(232 486) scale(0.6875)">
-            <rect x="2.5" y="5" width="8.5" height="8" rx="1.5"/>
-            <path d="M8 2.5h5.5V8M13.5 2.5 7.5 8.5"/>
-          </g>
-          <text data-node-label="" data-detail-anchor="" x="286" y="512" class="t-primary" font-size="11" font-weight="600" text-anchor="middle">观察者容器</text>
-        <text data-detail="context" x="286" y="528" class="t-muted" font-size="9" text-anchor="middle">ffmpeg · HLS</text>
-        <text data-detail="fine" x="286" y="540" class="t-external" font-size="7" text-anchor="middle">无鉴权</text>
         </g>
 
         <g id="node-protocollib" data-node-id="protocollib" data-node-label="ProtocolLib" tabindex="0" role="button" aria-label="聚焦ProtocolLib，协议级校验, 架构组件" aria-pressed="false" data-node-kind="external" data-node-sublabel="协议级校验" data-node-tag="软依赖" data-node-context="架构组件">
@@ -5347,23 +5315,15 @@ OTHER DEALINGS IN THE FONT SOFTWARE.
           <rect x="1053.8" y="304" width="48.4" height="14" rx="3" class="c-mask"/>
           <text x="1078" y="314" class="t-muted" font-size="8" text-anchor="middle">档位升级</text>
         </g>
-        <g data-detail="context" data-edge-from="panel" data-edge-to="decision" data-edge-label="管理指令" data-edge-key="6" data-edge-id="panel-to-decision">
-          <rect x="965.8" y="232" width="48.4" height="14" rx="3" class="c-mask"/>
-          <text x="990" y="242" class="t-security" font-size="8" text-anchor="middle">管理指令</text>
-        </g>
-        <g data-detail="context" data-edge-from="ingest" data-edge-to="observer" data-edge-label="分配观察者槽位" data-edge-key="7" data-edge-id="ingest-to-observer">
-          <rect x="247.4" y="422" width="77.2" height="14" rx="3" class="c-mask"/>
-          <text x="286" y="432" class="t-messagebus" font-size="8" text-anchor="middle">分配观察者槽位</text>
-        </g>
-        <g data-detail="context" data-edge-from="protocollib" data-edge-to="modules" data-edge-label="数据包事件" data-edge-key="8" data-edge-id="protocollib-to-modules">
+        <g data-detail="context" data-edge-from="protocollib" data-edge-to="modules" data-edge-label="数据包事件" data-edge-key="6" data-edge-id="protocollib-to-modules">
           <rect x="609" y="460" width="58" height="14" rx="3" class="c-mask"/>
           <text x="638" y="470" class="t-messagebus" font-size="8" text-anchor="middle">数据包事件</text>
         </g>
-        <g data-detail="context" data-edge-from="sanction" data-edge-to="db" data-edge-label="封禁落盘" data-edge-key="9" data-edge-id="sanction-to-db">
+        <g data-detail="context" data-edge-from="sanction" data-edge-to="db" data-edge-label="封禁落盘" data-edge-key="7" data-edge-id="sanction-to-db">
           <rect x="1141.8" y="422" width="48.4" height="14" rx="3" class="c-mask"/>
           <text x="1166" y="432" class="t-muted" font-size="8" text-anchor="middle">封禁落盘</text>
         </g>
-        <g data-detail="context" data-edge-from="sanction" data-edge-to="proxy" data-edge-label="跨服封禁同步" data-edge-key="10" data-edge-id="sanction-to-proxy">
+        <g data-detail="context" data-edge-from="sanction" data-edge-to="proxy" data-edge-label="跨服封禁同步" data-edge-key="8" data-edge-id="sanction-to-proxy">
           <rect x="1132.2" y="266" width="67.6" height="14" rx="3" class="c-mask"/>
           <text x="1166" y="276" class="t-messagebus" font-size="8" text-anchor="middle">跨服封禁同步</text>
         </g>
@@ -5379,33 +5339,24 @@ OTHER DEALINGS IN THE FONT SOFTWARE.
           <text data-boundary-label="" x="50" y="279" class="t-security" font-size="9" font-weight="600">不可信输入</text>
         </g>
 
-        <g data-graph-role="structural-frame-label" data-composition-frame-id="2" data-composition-frame-kind="security-group" data-composition-frame-label="认证边界">
-          <rect data-graph-role="structural-frame-label-mask" x="922" y="84" width="53.199999999999996" height="16" rx="3" class="c-mask"/>
-          <text data-boundary-label="" x="926" y="97" class="t-security" font-size="9" font-weight="600">认证边界</text>
-        </g>
-
         <!-- Legend -->
         <g data-legend="" data-legend-bridge="">
           <text x="40" y="584" class="t-primary" font-size="12" font-weight="650">图例</text>
-          <g data-legend-semantic-kind="frontend" data-legend-kind="frontend" data-legend-label="前端" data-legend-x="40" data-legend-baseline="604" data-legend-width="63">
-            <rect x="40" y="595" width="16" height="10" rx="2.5" class="c-frontend" stroke-width="1"/>
-            <text x="62" y="604" class="t-muted" font-size="10" font-weight="500">前端</text>
+          <g data-legend-semantic-kind="backend" data-legend-kind="backend" data-legend-label="后端" data-legend-x="40" data-legend-baseline="604" data-legend-width="63">
+            <rect x="40" y="595" width="16" height="10" rx="2.5" class="c-backend" stroke-width="1"/>
+            <text x="62" y="604" class="t-muted" font-size="10" font-weight="500">后端</text>
           </g>
-          <g data-legend-semantic-kind="backend" data-legend-kind="backend" data-legend-label="后端" data-legend-x="125" data-legend-baseline="604" data-legend-width="63">
-            <rect x="125" y="595" width="16" height="10" rx="2.5" class="c-backend" stroke-width="1"/>
-            <text x="147" y="604" class="t-muted" font-size="10" font-weight="500">后端</text>
+          <g data-legend-semantic-kind="database" data-legend-kind="database" data-legend-label="数据库" data-legend-x="125" data-legend-baseline="604" data-legend-width="73">
+            <rect x="125" y="595" width="16" height="10" rx="2.5" class="c-database" stroke-width="1"/>
+            <text x="147" y="604" class="t-muted" font-size="10" font-weight="500">数据库</text>
           </g>
-          <g data-legend-semantic-kind="database" data-legend-kind="database" data-legend-label="数据库" data-legend-x="210" data-legend-baseline="604" data-legend-width="73">
-            <rect x="210" y="595" width="16" height="10" rx="2.5" class="c-database" stroke-width="1"/>
-            <text x="232" y="604" class="t-muted" font-size="10" font-weight="500">数据库</text>
+          <g data-legend-semantic-kind="security" data-legend-kind="security" data-legend-label="安全" data-legend-x="220" data-legend-baseline="604" data-legend-width="63">
+            <rect x="220" y="595" width="16" height="10" rx="2.5" class="c-security" stroke-width="1"/>
+            <text x="242" y="604" class="t-muted" font-size="10" font-weight="500">安全</text>
           </g>
-          <g data-legend-semantic-kind="security" data-legend-kind="security" data-legend-label="安全" data-legend-x="305" data-legend-baseline="604" data-legend-width="63">
-            <rect x="305" y="595" width="16" height="10" rx="2.5" class="c-security" stroke-width="1"/>
-            <text x="327" y="604" class="t-muted" font-size="10" font-weight="500">安全</text>
-          </g>
-          <g data-legend-semantic-kind="external" data-legend-kind="external" data-legend-label="外部系统" data-legend-x="390" data-legend-baseline="604" data-legend-width="83">
-            <rect x="390" y="595" width="16" height="10" rx="2.5" class="c-external" stroke-width="1"/>
-            <text x="412" y="604" class="t-muted" font-size="10" font-weight="500">外部系统</text>
+          <g data-legend-semantic-kind="external" data-legend-kind="external" data-legend-label="外部系统" data-legend-x="305" data-legend-baseline="604" data-legend-width="83">
+            <rect x="305" y="595" width="16" height="10" rx="2.5" class="c-external" stroke-width="1"/>
+            <text x="327" y="604" class="t-muted" font-size="10" font-weight="500">外部系统</text>
           </g>
         </g>
       </svg>
@@ -5602,7 +5553,7 @@ OTHER DEALINGS IN THE FONT SOFTWARE.
         <ul>
           <li>&bull; Listener ×12 采集 + 事件节流 20/50ms；AdvancedDetectionManager 每 100ms 异步全项检查，RCP 每 1s 重算</li>
           <li>&bull; 五档 ActionLevel：NORMAL 0.5 / MONITOR 0.75 / CAPTCHA 0.95 / TEMP_BAN 0.995 / PERM_BAN</li>
-          <li>&bull; 决策中心 CAPTCHA / TEMP_BAN / PERM_BAN 动作仍是空桩（Integration point），真实封禁只来自规则链 ViolationManager → BanManager</li>
+          <li>&bull; 决策中心 CAPTCHA / TEMP_BAN / PERM_BAN 已接入 CaptchaManager / BanManager；10Hz 检查循环下按「玩家 × 档位」冷却做幂等，连续验证码计数只由真实发起点累加</li>
         </ul>
       </div>
 
@@ -5613,8 +5564,7 @@ OTHER DEALINGS IN THE FONT SOFTWARE.
         </div>
         <ul>
           <li>&bull; 玩家输入全部不可信：移动/攻击包节流 + ProtocolValidator 校验；白名单靠 anticheat.bypass 附件全局豁免</li>
-          <li>&bull; /api/* 除 login|register|meta|debug 外统一过 AuthFilter（Bearer token）+ bcrypt cost=10 + RBAC 权限点</li>
-          <li>&bull; observerctl 端口 18081–18083 无鉴权；举报 reason 无长度与字符校验即广播落盘</li>
+          <li>&bull; 举报 reason 无长度与字符校验即广播落盘；静默吞异常约 40 处（跨版本防御为主，背包还原等路径缺日志）</li>
         </ul>
       </div>
 
@@ -5626,7 +5576,7 @@ OTHER DEALINGS IN THE FONT SOFTWARE.
         <ul>
           <li>&bull; 数据库 database.type 五选一：sqlite（默认）/ mysql / h2 / redis / mongodb，凭据在 config.yml</li>
           <li>&bull; 代理 BungeeCord / Velocity 软依赖（只实现 BungeeCord 消息通道）；ProtocolLib 5.3.0 未装则协议层降级</li>
-          <li>&bull; 面板 Javalin :8080（REST /api/*、WS /ws、/ws/replay/{uuid}，BukkitBridge 回主线程）；观察者容器走 HTTP observerctl 产 HLS</li>
+          <li>&bull; 审计日志异步入同一数据库（AuditManager）；管理端全部走游戏内 /ac config（Web 面板与观察者回放已于 v2.1.0 下线）</li>
         </ul>
       </div>
     </div>

diff --git a/README.md b/README.md
@@ -25,7 +25,8 @@
 
 ![AdvancedAntiCheat 高层运行时架构](docs/architecture/anticheat-runtime-architecture.png)
 
-> 上图由 [archify](https://github.com/tt-a1i/archify) 从仓库真实代码生成，锚定提交 `4b3bb47`，含 16 处源码引用。
+> 上图由 [archify](https://github.com/tt-a1i/archify) 从仓库真实代码生成，锚定提交 `5ae02ab`，含 13 处源码引用。
+> （该提交下线了观察者回放与 Web 面板，图已同步移除「管理面板」「观察者容器」节点。）
 >
 > 🔎 **在线交互版**：<https://cklsit.github.io/AdvancedAntiCheat/architecture/anticheat-runtime-architecture.html>
 > —— 可缩放 / 平移 / 搜索节点 / 追踪关系 / 切换深浅主题 / 导出 PNG·SVG（由 GitHub Pages 从 `docs/` 发布，[落地页](https://cklsit.github.io/AdvancedAntiCheat/)）
